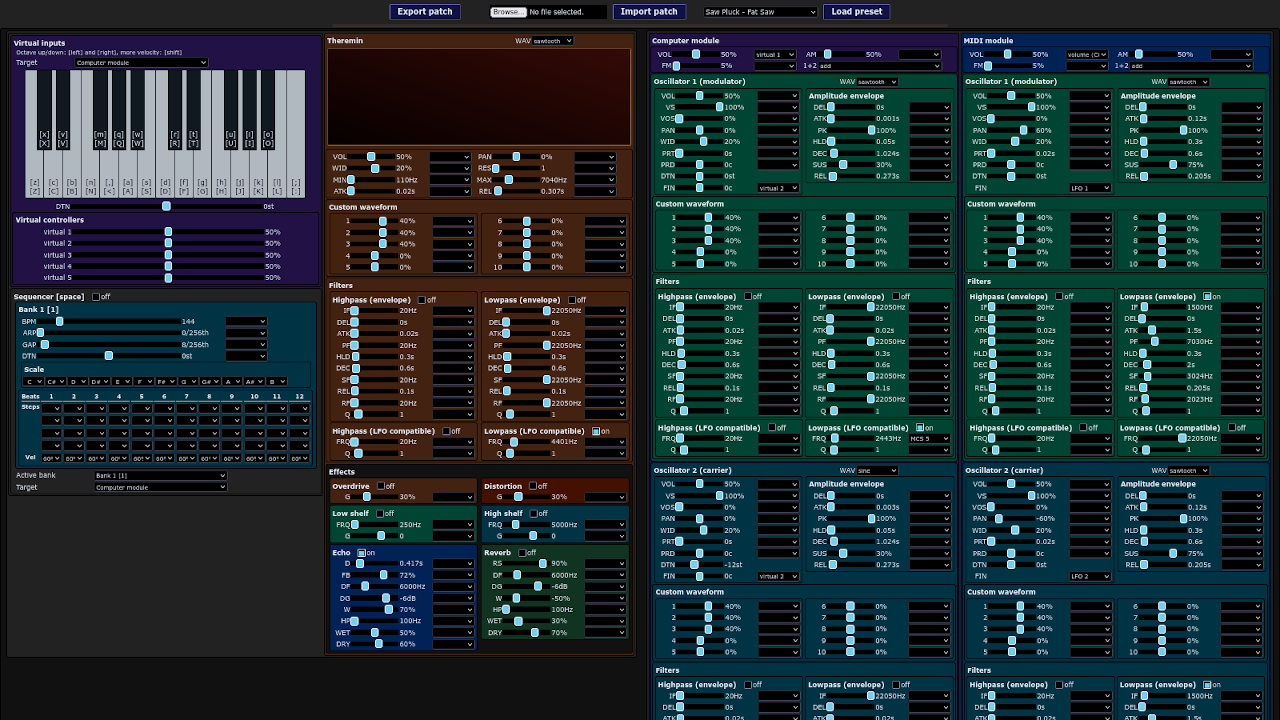
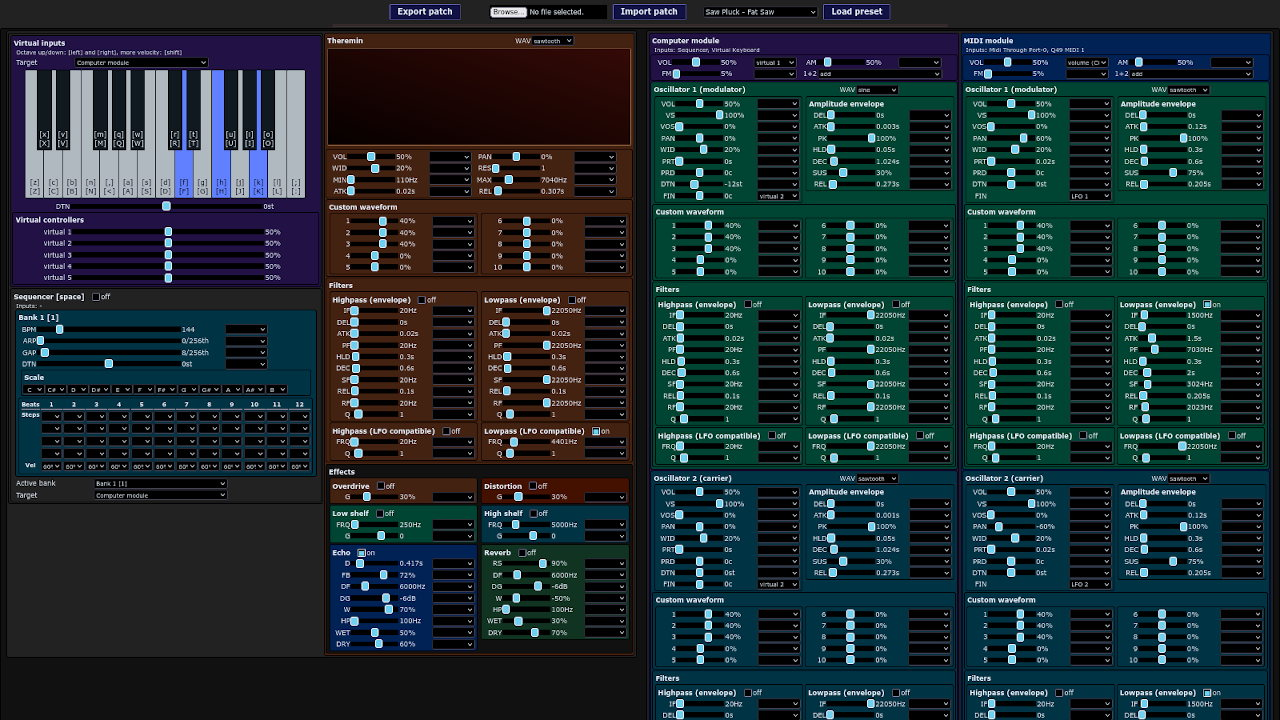
js-80: swap carrier and modulator in the Saw Pluck preset

Changed region(s): [[0.5, 0.0611, 1.0, 1.0], [0.0, 0.3972, 0.25, 0.7028], [0.125, 0.0917, 0.2188, 0.275]]

diff --git a/js-80/index.html b/js-80/index.html
@@ -12670,8 +12670,8 @@ div.color-9 { background-color: #410; }
             "cmp_o1_cwf_i7": [0, "none"],
             "cmp_o1_cwf_i8": [0, "none"],
             "cmp_o1_cwf_i9": [0, "none"],
-            "cmp_o1_dt": [0, "none"],
-            "cmp_o1_ea": [0.001, "none"],
+            "cmp_o1_dt": [-12, "none"],
+            "cmp_o1_ea": [0.003, "none"],
             "cmp_o1_ed": [1.024, "none"],
             "cmp_o1_edl": [0, "none"],
             "cmp_o1_eh": [0.05, "none"],
@@ -12704,8 +12704,8 @@ div.color-9 { background-color: #410; }
             "cmp_o1_h_st": ["off", "none"],
             "cmp_o1_hf": [20, "none"],
             "cmp_o1_hq": [1, "none"],
-            "cmp_o1_l_st": ["on", "none"],
-            "cmp_o1_lf": [1341.8, "mcs5"],
+            "cmp_o1_l_st": ["off", "none"],
+            "cmp_o1_lf": [22050, "none"],
             "cmp_o1_lq": [1, "none"],
             "cmp_o1_pn": [0, "none"],
             "cmp_o1_prd": [0, "none"],
@@ -12714,7 +12714,7 @@ div.color-9 { background-color: #410; }
             "cmp_o1_vl": [0.5, "none"],
             "cmp_o1_vs": [0, "none"],
             "cmp_o1_wd": [0.2, "none"],
-            "cmp_o1_wf": ["sawtooth", "none"],
+            "cmp_o1_wf": ["sine", "none"],
             "cmp_o2_cwf": [0, "none"],
             "cmp_o2_cwf_i0": [0.4, "none"],
             "cmp_o2_cwf_i1": [0.4, "none"],
@@ -12726,8 +12726,8 @@ div.color-9 { background-color: #410; }
             "cmp_o2_cwf_i7": [0, "none"],
             "cmp_o2_cwf_i8": [0, "none"],
             "cmp_o2_cwf_i9": [0, "none"],
-            "cmp_o2_dt": [-12, "none"],
-            "cmp_o2_ea": [0.003, "none"],
+            "cmp_o2_dt": [0, "none"],
+            "cmp_o2_ea": [0.001, "none"],
             "cmp_o2_ed": [1.024, "none"],
             "cmp_o2_edl": [0, "none"],
             "cmp_o2_eh": [0.05, "none"],
@@ -12760,8 +12760,8 @@ div.color-9 { background-color: #410; }
             "cmp_o2_h_st": ["off", "none"],
             "cmp_o2_hf": [20, "none"],
             "cmp_o2_hq": [1, "none"],
-            "cmp_o2_l_st": ["off", "none"],
-            "cmp_o2_lf": [22050, "none"],
+            "cmp_o2_l_st": ["on", "none"],
+            "cmp_o2_lf": [2382.587401574803, "mcs5"],
             "cmp_o2_lq": [1, "none"],
             "cmp_o2_pn": [0, "none"],
             "cmp_o2_prd": [0, "none"],
@@ -12770,7 +12770,7 @@ div.color-9 { background-color: #410; }
             "cmp_o2_vl": [0.5, "none"],
             "cmp_o2_vs": [0, "none"],
             "cmp_o2_wd": [0.2, "none"],
-            "cmp_o2_wf": ["sine", "none"],
+            "cmp_o2_wf": ["sawtooth", "none"],
             "cmp_od_gn": [0.3, "none"],
             "cmp_od_st": ["off", "none"],
             "cmp_rev_df": [6000, "none"],
@@ -12783,13 +12783,13 @@ div.color-9 { background-color: #410; }
             "cmp_rev_wet": [0.3, "none"],
             "cmp_vl": [0.5, "vrt1"],
             "lfo1_am": [0.0775, "mcs3"],
-            "lfo1_f": [4.20916, "mcs4"],
+            "lfo1_f": [4.032817322834646, "mcs4"],
             "lfo1_ma": [1, "none"],
             "lfo1_mi": [0.501, "mcs1"],
             "lfo1_rn": [0.02, "none"],
             "lfo1_wf": ["sine", "none"],
             "lfo2_am": [0.0775, "mcs3"],
-            "lfo2_f": [4.20916, "mcs4"],
+            "lfo2_f": [4.032817322834646, "mcs4"],
             "lfo2_ma": [1, "none"],
             "lfo2_mi": [0.499, "mcs2"],
             "lfo2_rn": [0, "none"],
@@ -12901,14 +12901,14 @@ div.color-9 { background-color: #410; }
             "mcs3_mi": [0.01, "none"],
             "mcs3_rn": [0, "none"],
             "mcs4_am": [1, "none"],
-            "mcs4_in": [0.5, "note"],
+            "mcs4_in": [0.47244094488188976, "note"],
             "mcs4_in2": [0, "none"],
             "mcs4_in3": [0, "none"],
             "mcs4_ma": [0.148, "none"],
             "mcs4_mi": [0.02, "none"],
             "mcs4_rn": [0, "none"],
             "mcs5_am": [1, "none"],
-            "mcs5_in": [0.5, "vrtnote"],
+            "mcs5_in": [0.47244094488188976, "vrtnote"],
             "mcs5_in2": [0, "none"],
             "mcs5_in3": [0, "none"],
             "mcs5_ma": [0.16, "none"],
@@ -13701,13 +13701,13 @@ div.color-9 { background-color: #410; }
             "cmp_rev_wet": [0.16, "none"],
             "cmp_vl": [0.5, "vrt1"],
             "lfo1_am": [0.0775, "mcs3"],
-            "lfo1_f": [4.20916, "mcs4"],
+            "lfo1_f": [4.032817322834646, "mcs4"],
             "lfo1_ma": [1, "none"],
             "lfo1_mi": [0.501, "mcs1"],
             "lfo1_rn": [0.02, "none"],
             "lfo1_wf": ["sine", "none"],
             "lfo2_am": [0.0775, "mcs3"],
-            "lfo2_f": [4.20916, "mcs4"],
+            "lfo2_f": [4.032817322834646, "mcs4"],
             "lfo2_ma": [1, "none"],
             "lfo2_mi": [0.499, "mcs2"],
             "lfo2_rn": [0, "none"],
@@ -13819,14 +13819,14 @@ div.color-9 { background-color: #410; }
             "mcs3_mi": [0.01, "none"],
             "mcs3_rn": [0, "none"],
             "mcs4_am": [1, "none"],
-            "mcs4_in": [0.5, "vrtnote"],
+            "mcs4_in": [0.47244094488188976, "vrtnote"],
             "mcs4_in2": [0, "none"],
             "mcs4_in3": [0, "none"],
             "mcs4_ma": [0.148, "none"],
             "mcs4_mi": [0.02, "none"],
             "mcs4_rn": [0, "none"],
             "mcs5_am": [1, "none"],
-            "mcs5_in": [0.5, "note"],
+            "mcs5_in": [0.47244094488188976, "note"],
             "mcs5_in2": [0, "none"],
             "mcs5_in3": [0, "none"],
             "mcs5_ma": [0.16, "none"],
@@ -13891,8 +13891,8 @@ div.color-9 { background-color: #410; }
             "midi_o1_cwf_i7": [0, "none"],
             "midi_o1_cwf_i8": [0, "none"],
             "midi_o1_cwf_i9": [0, "none"],
-            "midi_o1_dt": [0, "none"],
-            "midi_o1_ea": [0.001, "none"],
+            "midi_o1_dt": [-12, "none"],
+            "midi_o1_ea": [0.003, "none"],
             "midi_o1_ed": [1.024, "none"],
             "midi_o1_edl": [0, "none"],
             "midi_o1_eh": [0.05, "none"],
@@ -13925,8 +13925,8 @@ div.color-9 { background-color: #410; }
             "midi_o1_h_st": ["off", "none"],
             "midi_o1_hf": [20, "none"],
             "midi_o1_hq": [1, "none"],
-            "midi_o1_l_st": ["on", "none"],
-            "midi_o1_lf": [1341.8, "mcs5"],
+            "midi_o1_l_st": ["off", "none"],
+            "midi_o1_lf": [22050, "none"],
             "midi_o1_lq": [1, "none"],
             "midi_o1_pn": [0, "none"],
             "midi_o1_prd": [0, "none"],
@@ -13935,7 +13935,7 @@ div.color-9 { background-color: #410; }
             "midi_o1_vl": [0.5, "none"],
             "midi_o1_vs": [0, "none"],
             "midi_o1_wd": [0.2, "none"],
-            "midi_o1_wf": ["sawtooth", "none"],
+            "midi_o1_wf": ["sine", "none"],
             "midi_o2_cwf": [0, "none"],
             "midi_o2_cwf_i0": [0.4, "none"],
             "midi_o2_cwf_i1": [0.4, "none"],
@@ -13947,8 +13947,8 @@ div.color-9 { background-color: #410; }
             "midi_o2_cwf_i7": [0, "none"],
             "midi_o2_cwf_i8": [0, "none"],
             "midi_o2_cwf_i9": [0, "none"],
-            "midi_o2_dt": [-12, "none"],
-            "midi_o2_ea": [0.003, "none"],
+            "midi_o2_dt": [0, "none"],
+            "midi_o2_ea": [0.001, "none"],
             "midi_o2_ed": [1.024, "none"],
             "midi_o2_edl": [0, "none"],
             "midi_o2_eh": [0.05, "none"],
@@ -13981,8 +13981,8 @@ div.color-9 { background-color: #410; }
             "midi_o2_h_st": ["off", "none"],
             "midi_o2_hf": [20, "none"],
             "midi_o2_hq": [1, "none"],
-            "midi_o2_l_st": ["off", "none"],
-            "midi_o2_lf": [22050, "none"],
+            "midi_o2_l_st": ["on", "none"],
+            "midi_o2_lf": [2382.587401574803, "mcs5"],
             "midi_o2_lq": [1, "none"],
             "midi_o2_pn": [0, "none"],
             "midi_o2_prd": [0, "none"],
@@ -13991,7 +13991,7 @@ div.color-9 { background-color: #410; }
             "midi_o2_vl": [0.5, "none"],
             "midi_o2_vs": [0, "none"],
             "midi_o2_wd": [0.2, "none"],
-            "midi_o2_wf": ["sine", "none"],
+            "midi_o2_wf": ["sawtooth", "none"],
             "midi_od_gn": [0.3, "none"],
             "midi_od_st": ["off", "none"],
             "midi_rev_df": [6000, "none"],

diff --git a/js-80/src/js-80.js b/js-80/src/js-80.js
@@ -11913,8 +11913,8 @@
             "cmp_o1_cwf_i7": [0, "none"],
             "cmp_o1_cwf_i8": [0, "none"],
             "cmp_o1_cwf_i9": [0, "none"],
-            "cmp_o1_dt": [0, "none"],
-            "cmp_o1_ea": [0.001, "none"],
+            "cmp_o1_dt": [-12, "none"],
+            "cmp_o1_ea": [0.003, "none"],
             "cmp_o1_ed": [1.024, "none"],
             "cmp_o1_edl": [0, "none"],
             "cmp_o1_eh": [0.05, "none"],
@@ -11947,8 +11947,8 @@
             "cmp_o1_h_st": ["off", "none"],
             "cmp_o1_hf": [20, "none"],
             "cmp_o1_hq": [1, "none"],
-            "cmp_o1_l_st": ["on", "none"],
-            "cmp_o1_lf": [1341.8, "mcs5"],
+            "cmp_o1_l_st": ["off", "none"],
+            "cmp_o1_lf": [22050, "none"],
             "cmp_o1_lq": [1, "none"],
             "cmp_o1_pn": [0, "none"],
             "cmp_o1_prd": [0, "none"],
@@ -11957,7 +11957,7 @@
             "cmp_o1_vl": [0.5, "none"],
             "cmp_o1_vs": [0, "none"],
             "cmp_o1_wd": [0.2, "none"],
-            "cmp_o1_wf": ["sawtooth", "none"],
+            "cmp_o1_wf": ["sine", "none"],
             "cmp_o2_cwf": [0, "none"],
             "cmp_o2_cwf_i0": [0.4, "none"],
             "cmp_o2_cwf_i1": [0.4, "none"],
@@ -11969,8 +11969,8 @@
             "cmp_o2_cwf_i7": [0, "none"],
             "cmp_o2_cwf_i8": [0, "none"],
             "cmp_o2_cwf_i9": [0, "none"],
-            "cmp_o2_dt": [-12, "none"],
-            "cmp_o2_ea": [0.003, "none"],
+            "cmp_o2_dt": [0, "none"],
+            "cmp_o2_ea": [0.001, "none"],
             "cmp_o2_ed": [1.024, "none"],
             "cmp_o2_edl": [0, "none"],
             "cmp_o2_eh": [0.05, "none"],
@@ -12003,8 +12003,8 @@
             "cmp_o2_h_st": ["off", "none"],
             "cmp_o2_hf": [20, "none"],
             "cmp_o2_hq": [1, "none"],
-            "cmp_o2_l_st": ["off", "none"],
-            "cmp_o2_lf": [22050, "none"],
+            "cmp_o2_l_st": ["on", "none"],
+            "cmp_o2_lf": [2382.587401574803, "mcs5"],
             "cmp_o2_lq": [1, "none"],
             "cmp_o2_pn": [0, "none"],
             "cmp_o2_prd": [0, "none"],
@@ -12013,7 +12013,7 @@
             "cmp_o2_vl": [0.5, "none"],
             "cmp_o2_vs": [0, "none"],
             "cmp_o2_wd": [0.2, "none"],
-            "cmp_o2_wf": ["sine", "none"],
+            "cmp_o2_wf": ["sawtooth", "none"],
             "cmp_od_gn": [0.3, "none"],
             "cmp_od_st": ["off", "none"],
             "cmp_rev_df": [6000, "none"],
@@ -12026,13 +12026,13 @@
             "cmp_rev_wet": [0.3, "none"],
             "cmp_vl": [0.5, "vrt1"],
             "lfo1_am": [0.0775, "mcs3"],
-            "lfo1_f": [4.20916, "mcs4"],
+            "lfo1_f": [4.032817322834646, "mcs4"],
             "lfo1_ma": [1, "none"],
             "lfo1_mi": [0.501, "mcs1"],
             "lfo1_rn": [0.02, "none"],
             "lfo1_wf": ["sine", "none"],
             "lfo2_am": [0.0775, "mcs3"],
-            "lfo2_f": [4.20916, "mcs4"],
+            "lfo2_f": [4.032817322834646, "mcs4"],
             "lfo2_ma": [1, "none"],
             "lfo2_mi": [0.499, "mcs2"],
             "lfo2_rn": [0, "none"],
@@ -12144,14 +12144,14 @@
             "mcs3_mi": [0.01, "none"],
             "mcs3_rn": [0, "none"],
             "mcs4_am": [1, "none"],
-            "mcs4_in": [0.5, "note"],
+            "mcs4_in": [0.47244094488188976, "note"],
             "mcs4_in2": [0, "none"],
             "mcs4_in3": [0, "none"],
             "mcs4_ma": [0.148, "none"],
             "mcs4_mi": [0.02, "none"],
             "mcs4_rn": [0, "none"],
             "mcs5_am": [1, "none"],
-            "mcs5_in": [0.5, "vrtnote"],
+            "mcs5_in": [0.47244094488188976, "vrtnote"],
             "mcs5_in2": [0, "none"],
             "mcs5_in3": [0, "none"],
             "mcs5_ma": [0.16, "none"],
@@ -12944,13 +12944,13 @@
             "cmp_rev_wet": [0.16, "none"],
             "cmp_vl": [0.5, "vrt1"],
             "lfo1_am": [0.0775, "mcs3"],
-            "lfo1_f": [4.20916, "mcs4"],
+            "lfo1_f": [4.032817322834646, "mcs4"],
             "lfo1_ma": [1, "none"],
             "lfo1_mi": [0.501, "mcs1"],
             "lfo1_rn": [0.02, "none"],
             "lfo1_wf": ["sine", "none"],
             "lfo2_am": [0.0775, "mcs3"],
-            "lfo2_f": [4.20916, "mcs4"],
+            "lfo2_f": [4.032817322834646, "mcs4"],
             "lfo2_ma": [1, "none"],
             "lfo2_mi": [0.499, "mcs2"],
             "lfo2_rn": [0, "none"],
@@ -13062,14 +13062,14 @@
             "mcs3_mi": [0.01, "none"],
             "mcs3_rn": [0, "none"],
             "mcs4_am": [1, "none"],
-            "mcs4_in": [0.5, "vrtnote"],
+            "mcs4_in": [0.47244094488188976, "vrtnote"],
             "mcs4_in2": [0, "none"],
             "mcs4_in3": [0, "none"],
             "mcs4_ma": [0.148, "none"],
             "mcs4_mi": [0.02, "none"],
             "mcs4_rn": [0, "none"],
             "mcs5_am": [1, "none"],
-            "mcs5_in": [0.5, "note"],
+            "mcs5_in": [0.47244094488188976, "note"],
             "mcs5_in2": [0, "none"],
             "mcs5_in3": [0, "none"],
             "mcs5_ma": [0.16, "none"],
@@ -13134,8 +13134,8 @@
             "midi_o1_cwf_i7": [0, "none"],
             "midi_o1_cwf_i8": [0, "none"],
             "midi_o1_cwf_i9": [0, "none"],
-            "midi_o1_dt": [0, "none"],
-            "midi_o1_ea": [0.001, "none"],
+            "midi_o1_dt": [-12, "none"],
+            "midi_o1_ea": [0.003, "none"],
             "midi_o1_ed": [1.024, "none"],
             "midi_o1_edl": [0, "none"],
             "midi_o1_eh": [0.05, "none"],
@@ -13168,8 +13168,8 @@
             "midi_o1_h_st": ["off", "none"],
             "midi_o1_hf": [20, "none"],
             "midi_o1_hq": [1, "none"],
-            "midi_o1_l_st": ["on", "none"],
-            "midi_o1_lf": [1341.8, "mcs5"],
+            "midi_o1_l_st": ["off", "none"],
+            "midi_o1_lf": [22050, "none"],
             "midi_o1_lq": [1, "none"],
             "midi_o1_pn": [0, "none"],
             "midi_o1_prd": [0, "none"],
@@ -13178,7 +13178,7 @@
             "midi_o1_vl": [0.5, "none"],
             "midi_o1_vs": [0, "none"],
             "midi_o1_wd": [0.2, "none"],
-            "midi_o1_wf": ["sawtooth", "none"],
+            "midi_o1_wf": ["sine", "none"],
             "midi_o2_cwf": [0, "none"],
             "midi_o2_cwf_i0": [0.4, "none"],
             "midi_o2_cwf_i1": [0.4, "none"],
@@ -13190,8 +13190,8 @@
             "midi_o2_cwf_i7": [0, "none"],
             "midi_o2_cwf_i8": [0, "none"],
             "midi_o2_cwf_i9": [0, "none"],
-            "midi_o2_dt": [-12, "none"],
-            "midi_o2_ea": [0.003, "none"],
+            "midi_o2_dt": [0, "none"],
+            "midi_o2_ea": [0.001, "none"],
             "midi_o2_ed": [1.024, "none"],
             "midi_o2_edl": [0, "none"],
             "midi_o2_eh": [0.05, "none"],
@@ -13224,8 +13224,8 @@
             "midi_o2_h_st": ["off", "none"],
             "midi_o2_hf": [20, "none"],
             "midi_o2_hq": [1, "none"],
-            "midi_o2_l_st": ["off", "none"],
-            "midi_o2_lf": [22050, "none"],
+            "midi_o2_l_st": ["on", "none"],
+            "midi_o2_lf": [2382.587401574803, "mcs5"],
             "midi_o2_lq": [1, "none"],
             "midi_o2_pn": [0, "none"],
             "midi_o2_prd": [0, "none"],
@@ -13234,7 +13234,7 @@
             "midi_o2_vl": [0.5, "none"],
             "midi_o2_vs": [0, "none"],
             "midi_o2_wd": [0.2, "none"],
-            "midi_o2_wf": ["sine", "none"],
+            "midi_o2_wf": ["sawtooth", "none"],
             "midi_od_gn": [0.3, "none"],
             "midi_od_st": ["off", "none"],
             "midi_rev_df": [6000, "none"],
